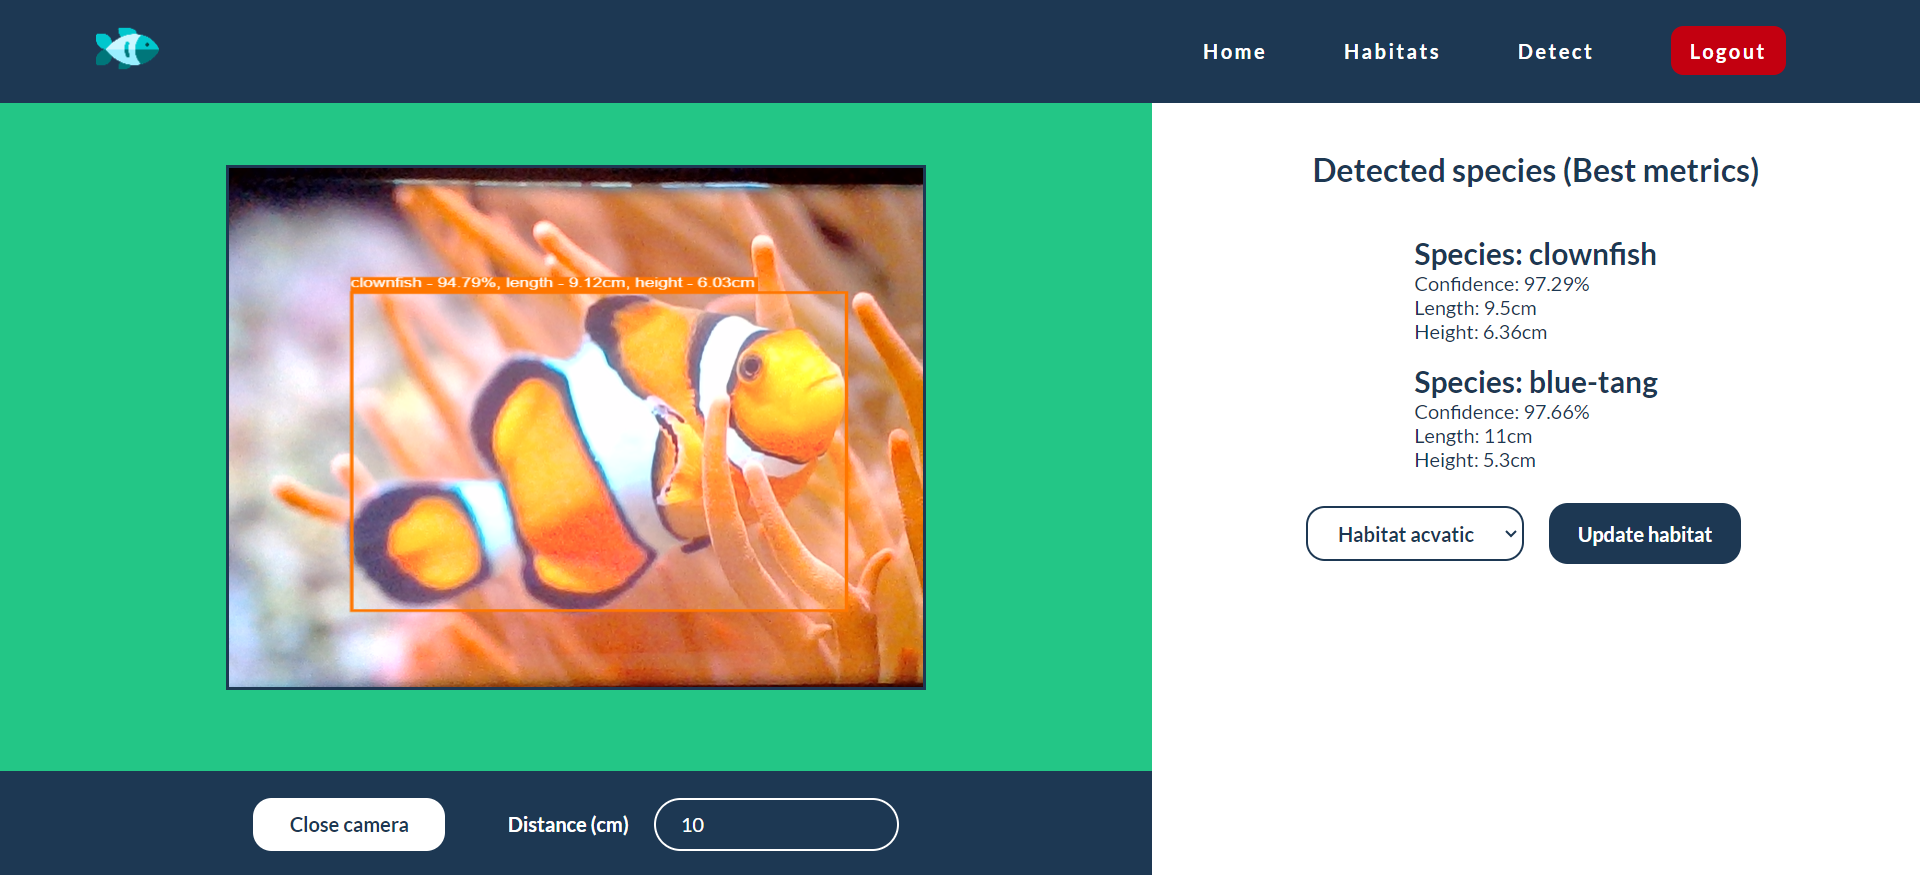
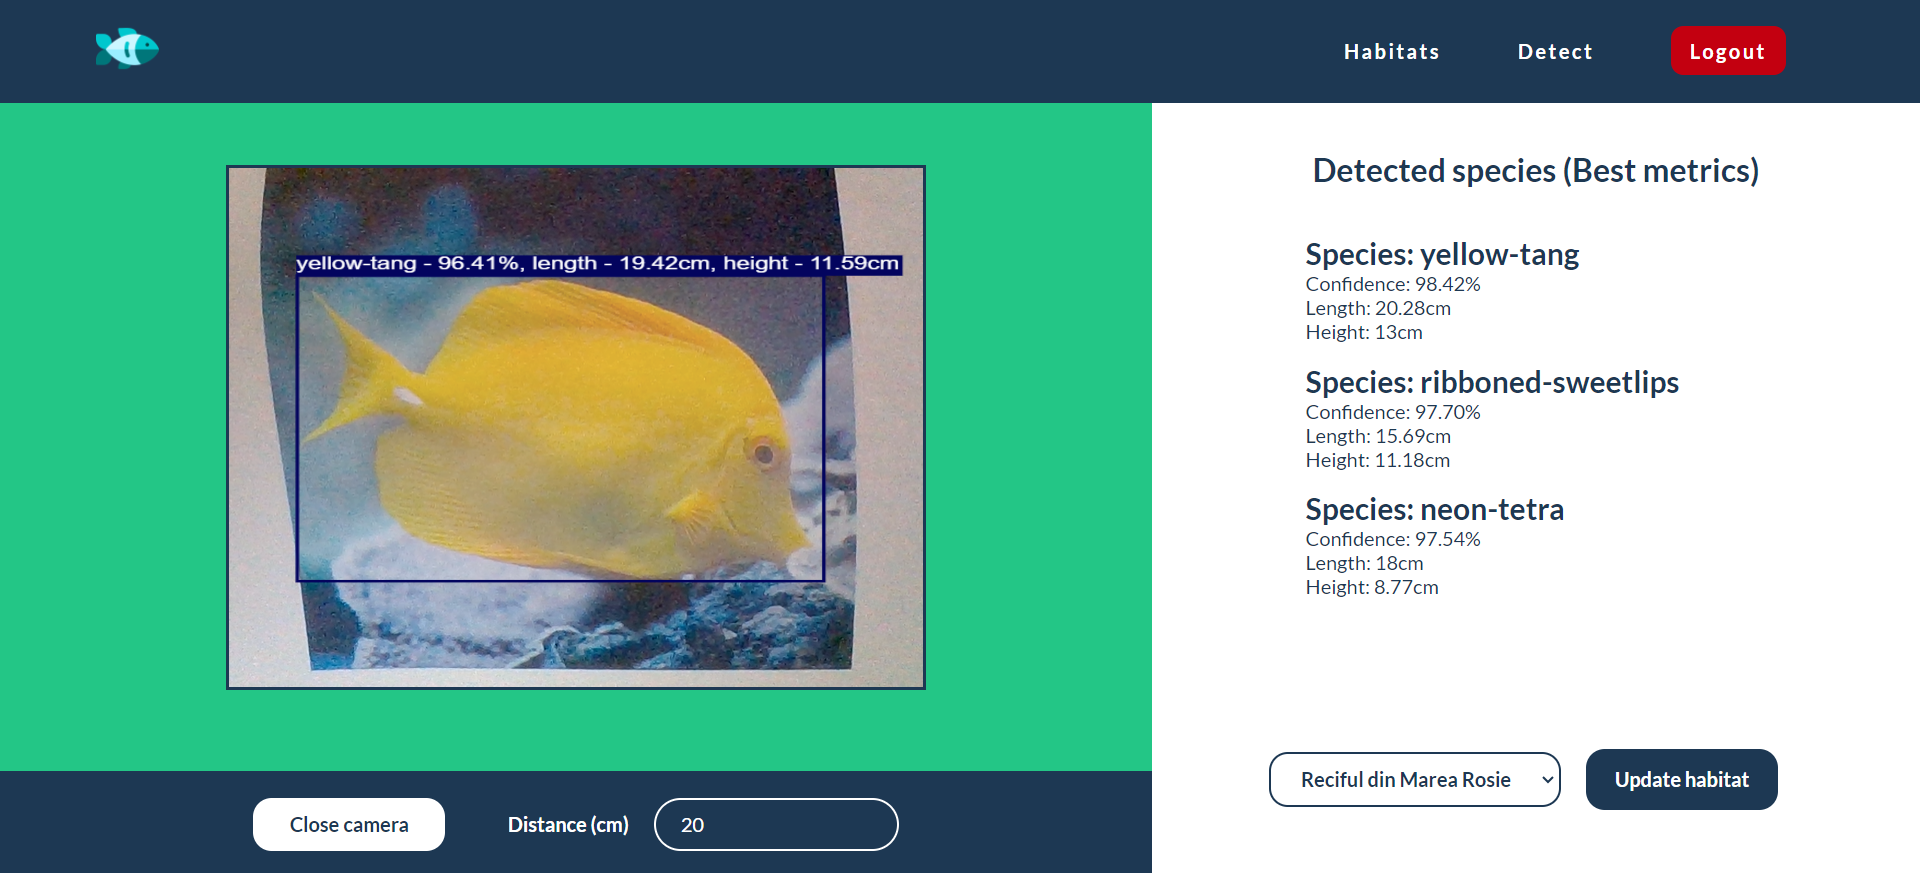
optimized bounding-boxes for detections

diff --git a/client/src/utils/renderBox.js b/client/src/utils/renderBox.js
@@ -1,4 +1,5 @@
 import labels from '../data/labels.json'
+import Colors from './colors'
 
 export const renderBoxes = (distance, canvas, boxesData, scoresData, classesData, ratios) => {
     const ctx = canvas.getContext('2d')
@@ -7,7 +8,7 @@ export const renderBoxes = (distance, canvas, boxesData, scoresData, classesData
     // configure font
     const font = `${Math.max(
         Math.round(Math.max(ctx.canvas.width, ctx.canvas.height) / 40), 
-        14
+        22
     )}px Arial`
     ctx.font = font
     ctx.textBaseline = 'top'
@@ -21,7 +22,7 @@ export const renderBoxes = (distance, canvas, boxesData, scoresData, classesData
         const className = labels[classesData[i]]
         const classScore = (scoresData[i] * 100).toFixed(2)
 
-        if (classScore >= 85) {
+        if (classScore >= 90) {
             detectedSpecies = className
             detectedConfidence = classScore
 
@@ -43,8 +44,10 @@ export const renderBoxes = (distance, canvas, boxesData, scoresData, classesData
             // console.log(`class: ${className}, score: ${score}`)
             // console.log(`length: ${realLength}, height: ${realHeight}`)
 
+            const colors = new Colors()
+            const color = colors.get(classesData[i])
+
             // draw box
-            const color = '#FF7600'
             ctx.fillStyle = 'rgba(255, 255, 255, 0.2)'
             ctx.fillRect(x1, y1, width, height)
 

diff --git a/client/src/utils/colors.js b/client/src/utils/colors.js
@@ -1,0 +1,25 @@
+export default class Colors {
+    constructor() {
+      this.palette = [
+        "#FFB703",
+        "#B33234",
+        "#51518E",
+        "#A98600",
+        "#410179",
+        "#FF4D00",
+        "#03045E"
+      ]
+      this.n = this.palette.length
+    }
+
+    get = (i) => this.palette[Math.floor(i) % this.n]
+
+    static hexToRgba = (hex, alpha) => {
+        var result = /^#?([a-f\d]{2})([a-f\d]{2})([a-f\d]{2})$/i.exec(hex);
+        return result
+        ? `rgba(${[parseInt(result[1], 16), parseInt(result[2], 16), parseInt(result[3], 16)].join(
+            ", "
+            )}, ${alpha})`
+        : null
+    }
+}

diff --git a/client/src/style/DetectPage.css b/client/src/style/DetectPage.css
@@ -78,6 +78,9 @@
 
 .fish-container ul {
     list-style-type: none;
+    width: 60%;
+    height: 400px;
+    overflow: auto;
 }
 
 .fish-container ul li {

diff --git a/README.md b/README.md
@@ -1,9 +1,14 @@
 # Fish species detection 
 This is a web application designed to detect fish species and estimate their size in real-time using a yolov8 custom trained model.
 
+Available species: blue-tang, butterflyfish, clownfish, moorish-idol, neon-tetra, ribboned-sweetlips, yellow-tang
+
 ## Features
-- **fish species detection** (blue-tang, butterflyfish, clownfish, moorish-idol, neon-tetra, ribboned-sweetlips, yellow-tang)
-- **fish size estimation**
+- **fish species detection**: use your webcam to detect fish species in real-time 
+- **fish size estimation**: estimate the length and height of detected fish
+- **user authentication**: secure user resources with JWT and Refresh Token
+- **session monitoring**: track best metrics for a fish species over a session
+- **habitats management**: save detected species information to one of your habitats
 
 ## Credentials
 - **email** - user@user
